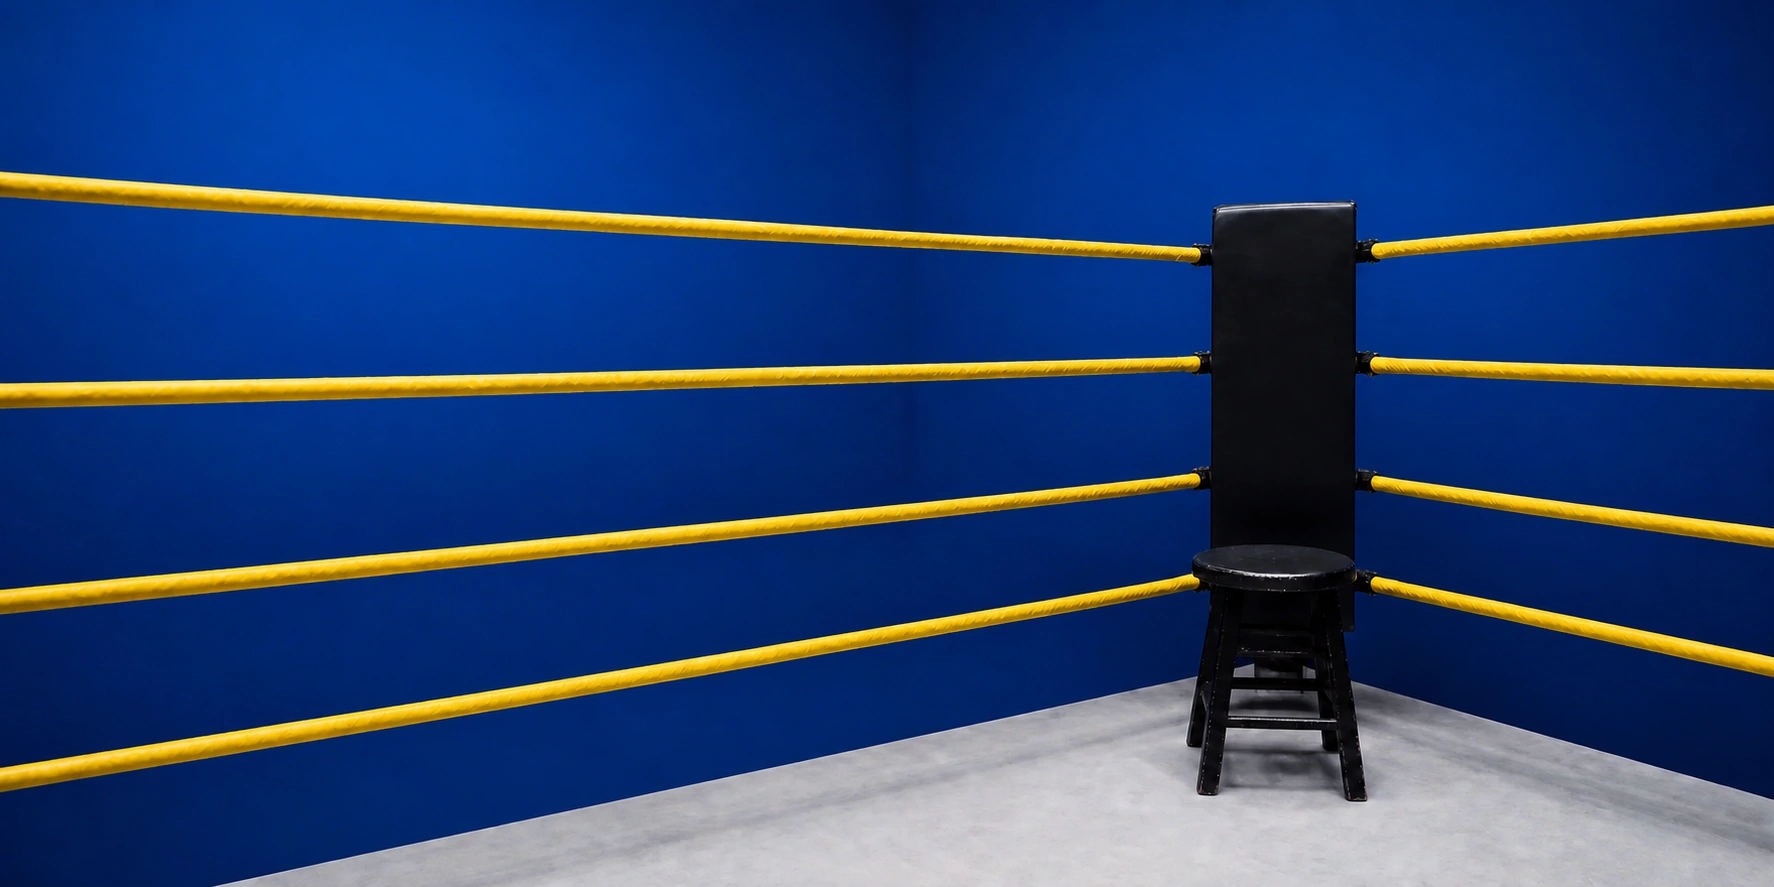
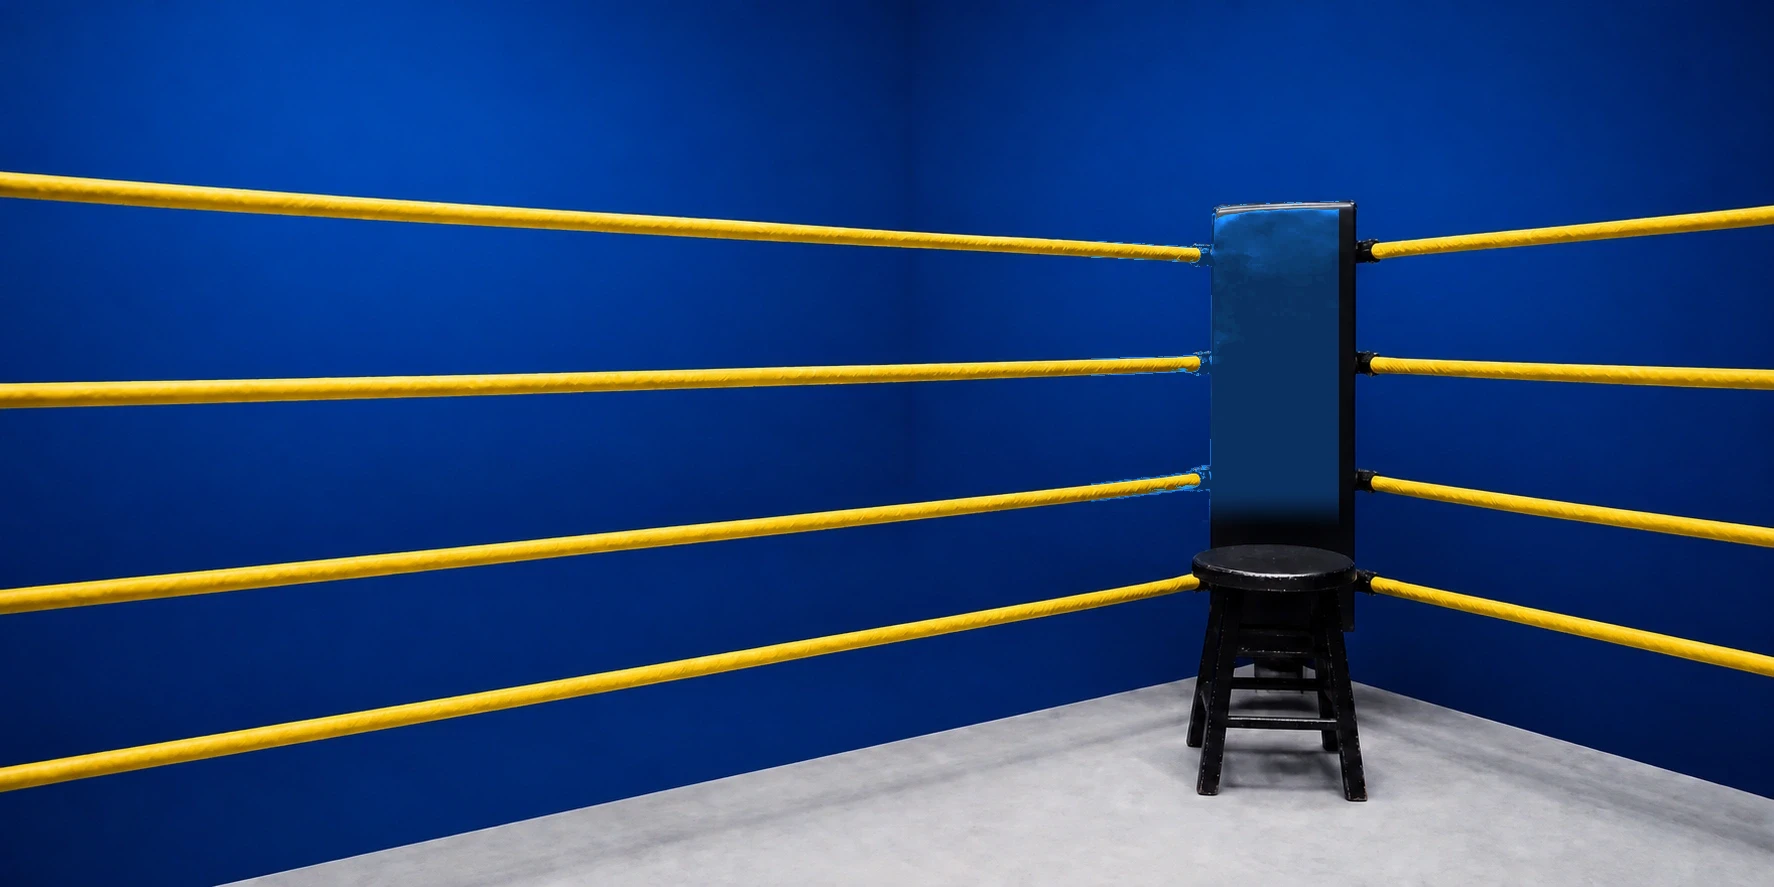
fix: elevate Blue Corner coming-soon per review notes
- Hero: restore full page-frame width and fit header+hero into one viewport (svh-based)
- Yellow accents: thicker, better-offset underlines and taller marker-band highlights
- Eyebrow tags: larger, readable, clean two-line wrap
- Stats: bigger descriptions, all two lines (tightened the two longest labels)
- Roadmap: cut dead whitespace, future services clearly grey, Therapy stands out with a yellow cap
- Manifesto body: two lines breaking at "That's what this is."
- Hero art: recolor the corner post to blue (ropes yellow, stool black, backdrop blue)
- Re-baseline check-site.mjs to the newly approved design (hashes, cache-bust, locks)

Changed region(s): [[0.6201, 0.2131, 0.7751, 0.6088]]

diff --git a/assets/styles/concept-base.css b/assets/styles/concept-base.css
@@ -2,6 +2,7 @@
   --section-space: clamp(4rem, 6.5vw, 6.5rem);
   --signal-bar: clamp(2.375rem, 2.9vw, 2.75rem);
   --page-gutter: clamp(1rem, 3.8889vw, 3.5rem);
+  --header-h: 8rem;
   background: var(--brand-off-white);
 }
 
@@ -114,14 +115,15 @@
 .concept-hero__underline {
   text-decoration: underline;
   text-decoration-color: var(--brand-yellow);
-  text-decoration-thickness: 0.09em;
-  text-underline-offset: 0.08em;
+  text-decoration-thickness: 0.11em;
+  text-underline-offset: 0.16em;
+  text-decoration-skip-ink: none;
 }
 
 .marker-band {
   display: inline;
-  padding-inline: 0.06em;
-  background: linear-gradient(to top, var(--brand-yellow) 0 38%, transparent 38% 100%);
+  padding-inline: 0.08em;
+  background: linear-gradient(to top, var(--brand-yellow) 0 62%, transparent 62% 100%);
   color: inherit;
   -webkit-box-decoration-break: clone;
   box-decoration-break: clone;
@@ -262,16 +264,18 @@
   line-height: 0.9;
   text-decoration: underline;
   text-decoration-color: var(--brand-yellow);
-  text-decoration-thickness: 0.1em;
-  text-underline-offset: 0.08em;
+  text-decoration-thickness: 0.12em;
+  text-underline-offset: 0.12em;
+  text-decoration-skip-ink: none;
 }
 
 .stat p {
-  max-inline-size: 20ch;
-  margin: clamp(2.5rem, 4vw, 4rem) 0 0;
-  font-size: var(--font-size-support);
+  max-inline-size: 24ch;
+  margin: clamp(1.5rem, 2.4vw, 2.5rem) 0 0;
+  font-size: clamp(1.0625rem, 0.85rem + 0.6vw, 1.3rem);
   font-weight: var(--font-weight-semibold);
-  line-height: 1.5;
+  line-height: 1.4;
+  text-wrap: balance;
 }
 
 .stats__sources {
@@ -390,17 +394,17 @@
 
 .roadmap {
   display: flex;
-  min-block-size: clamp(30rem, 40vw, 36rem);
+  min-block-size: 0;
   flex-direction: column;
   justify-content: center;
-  padding-block: clamp(3rem, 4vw, 4rem);
+  padding-block: clamp(3rem, 4.5vw, 4.5rem);
 }
 
 .roadmap__list {
   display: grid;
   grid-template-columns: repeat(5, minmax(0, 1fr));
   padding: 0;
-  margin: clamp(2rem, 3vw, 3rem) 0 0;
+  margin: clamp(1.5rem, 2.4vw, 2.25rem) 0 0;
   list-style: none;
 }
 
@@ -429,8 +433,12 @@
 }
 
 .roadmap-item--future {
-  background: color-mix(in oklch, var(--brand-navy) 7%, var(--brand-off-white));
+  background: color-mix(in oklch, var(--brand-navy) 13%, var(--brand-off-white));
   color: var(--color-muted);
+}
+
+.roadmap-item--current {
+  border-block-start: 0.5rem solid var(--brand-yellow);
 }
 
 .roadmap-item strong {
@@ -948,19 +956,35 @@
   transform: translateY(0);
 }
 
-@media (min-width: 82.0625rem) {
-  .site-header__inner.page-frame,
-  .concept-hero__inner.page-frame {
-    inline-size: min(100%, 79rem);
+@media (min-width: 64.0625rem) {
+  .concept-hero {
+    display: flex;
+    align-items: stretch;
+    min-block-size: calc(100svh - var(--header-h) - var(--signal-bar));
   }
 
-  .concept-hero h1 {
-    font-size: 7.25rem;
+  .concept-hero__inner {
+    flex: 1;
+    align-content: center;
+    min-block-size: 0;
+    padding-block: clamp(1.25rem, 2.2vh, 2.5rem);
+  }
+}
+
+@media (min-width: 80rem) {
+  .meaning__copy {
+    padding-inline: 4.5vw 4vw;
   }
 
   .meaning__body-line {
     display: block;
     white-space: nowrap;
+  }
+}
+
+@media (min-width: 82.0625rem) {
+  .concept-hero h1 {
+    font-size: 7.25rem;
   }
 
   .conversion__inner {

diff --git a/index.html b/index.html
@@ -18,7 +18,7 @@
     <link rel="stylesheet" href="https://use.typekit.net/ciy6txz.css">
     <link rel="stylesheet" href="assets/styles/brand.css">
     <link rel="stylesheet" href="assets/styles/shared.css">
-    <link rel="stylesheet" href="assets/styles/concept-base.css?v=70ee8608">
+    <link rel="stylesheet" href="assets/styles/concept-base.css?v=a8323802">
     <script src="assets/scripts/shared.js" defer></script>
   </head>
   <body class="concept-page">
@@ -44,7 +44,7 @@
             <h1 id="hero-title" aria-label="Nobody Fights Alone."><span class="concept-hero__headline-line" aria-hidden="true">Nobody</span><span class="concept-hero__headline-line" aria-hidden="true">Fights <span class="concept-hero__accent concept-hero__underline">Alone.</span></span></h1>
           </div>
           <figure class="concept-hero__media image-frame" data-image-frame data-image-fallback-label="Blue Corner hero image">
-            <img class="concept-hero__image" src="assets/art/blue-corner-reference-ring-brand-v2.webp" width="1774" height="887" alt="An empty boxing-ring corner with yellow ropes, a black post and stool, and a deep blue backdrop." fetchpriority="high" data-fallback-image>
+            <img class="concept-hero__image" src="assets/art/blue-corner-reference-ring-brand-v2.webp" width="1774" height="887" alt="An empty boxing-ring corner with yellow ropes, a bright-blue padded corner post, a black stool, and a deep blue backdrop." fetchpriority="high" data-fallback-image>
             <span class="concept-hero__corner" aria-hidden="true"></span>
           </figure>
           <p class="concept-hero__lead" data-reveal><span class="concept-hero__lead-line"><span class="concept-hero__underline">Three</span> in four suicides in Canada are men.</span> <span class="concept-hero__lead-line">Let that sit for a second.</span></p>
@@ -71,11 +71,11 @@
             </article>
             <article class="stat">
               <strong class="stat__value">#1</strong>
-              <p>cause of death for men aged 20 to 49 is overdose</p>
+              <p>cause of death for men 20 to 49 is overdose</p>
             </article>
             <article class="stat">
               <strong class="stat__value">~300%</strong>
-              <p>more young men seeking gambling help since legalization</p>
+              <p>more young men seeking gambling help</p>
             </article>
           </div>
           <div class="stats__sources" data-reveal>

diff --git a/assets/styles/shared.css b/assets/styles/shared.css
@@ -179,15 +179,15 @@ button {
 .eyebrow {
   display: inline-block;
   inline-size: fit-content;
-  max-inline-size: min(100%, 38ch);
+  max-inline-size: min(100%, 34ch);
   margin: 0;
-  padding: 0.35rem 0.55rem 0.3rem;
+  padding: 0.4rem 0.7rem 0.34rem;
   background: var(--brand-yellow);
   color: var(--brand-navy);
-  font-size: var(--font-size-support);
+  font-size: clamp(1.0625rem, 0.94rem + 0.5vw, 1.3125rem);
   font-weight: 700;
-  letter-spacing: 0.1em;
-  line-height: 1.2;
+  letter-spacing: 0.075em;
+  line-height: 1.25;
   text-wrap: balance;
   text-transform: uppercase;
 }
